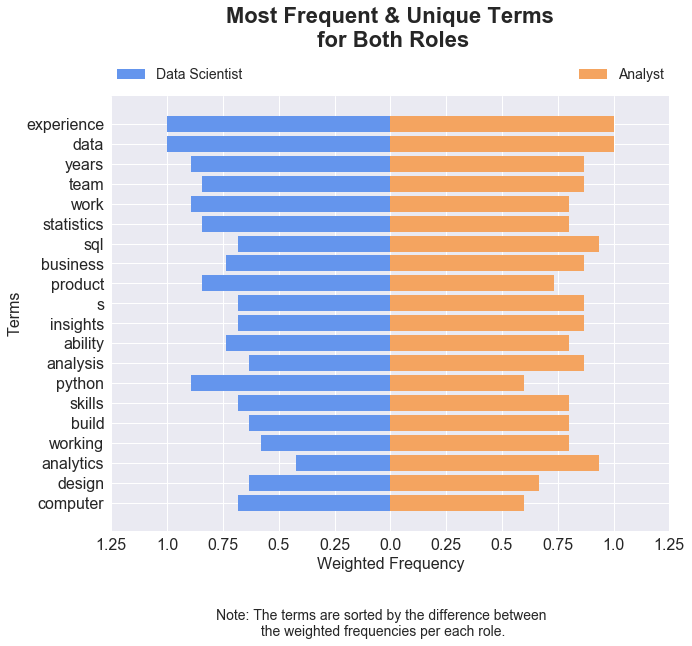
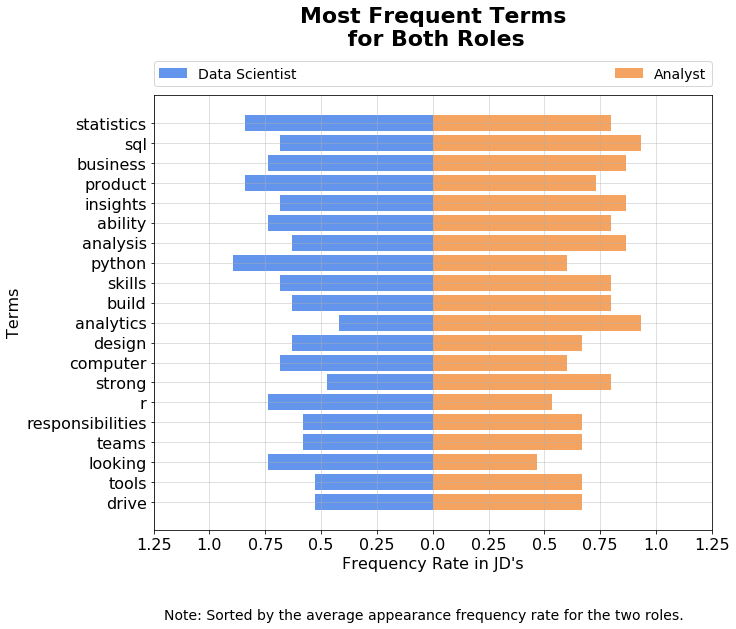
Replace tornado image for both: Add grids, remove non-insightful keywords, add clearer labels

diff --git a/jd_classification_model.py b/jd_classification_model.py
@@ -493,27 +493,38 @@ bars = topT_df['token'].tolist()
 pos = arange(len(bars))    # the bar centers on the y axis
 
 plt.figure(figsize=(10,8))
+# Add grid
+plt.grid(zorder=0, alpha =0.5)
 
 plt.barh(topT_df.index.values, -topT_df['primary_wf'], color='cornflowerblue' , label = primary_title)
 plt.barh(topT_df.index.values, topT_df['secondary_wf'], color='sandybrown', label = secondary_title )
 plt.yticks(pos, bars, fontsize = 16)
 plt.xlim(-x_axis_max,x_axis_max)
 plt.xticks(fontsize = 16)
-plt.xlabel("Weighted Frequency", fontsize = 16)
+plt.xlabel("Frequency Rate in JD's", fontsize = 16)
 plt.ylabel("Terms", fontsize = 16)
 # Change tick labels to be positive
 locs, labels = plt.xticks()
 labels = [abs(item) for item in locs]
 plt.xticks(locs, labels)
 
-title_string = "Most Frequent & Unique Terms\n for {}".format(sort_for_title)
+## ------------> Specific to "Both Titles" sort chart
+title_string = "Most Frequent Terms\n for {}".format(sort_for_title)
+subtitle_string = "Note: Sorted by the average appearance frequency rate for the two roles."
+
+## ------------> Specific to Single Title sort chart
+#title_string = "Most Frequent & Unique Terms\n for {}".format(sort_for_title)
+#subtitle_string = "Note: The terms are sorted by the difference between\n the weighted frequencies per each role."
+
+
 ttl = plt.title(title_string,fontsize=22, fontweight='bold' )
 ttl.set_position([.5, 1.1])
 
-subtitle_string = "Note: The terms are sorted by the difference between\n the weighted frequencies per each role."
 plt.suptitle(subtitle_string, y=-.01, fontsize=14)
 plt.legend(bbox_to_anchor=(0., 1.02, 1., .102), loc=3,
            ncol=2, mode="expand", borderaxespad=0., fontsize=14)
+
+
 
 plt.savefig(github_image_folder + 'TorandoChart_TermSensitivity_' + sort_for_title.replace(" ", "") + '.png',
             bbox_inches="tight")
